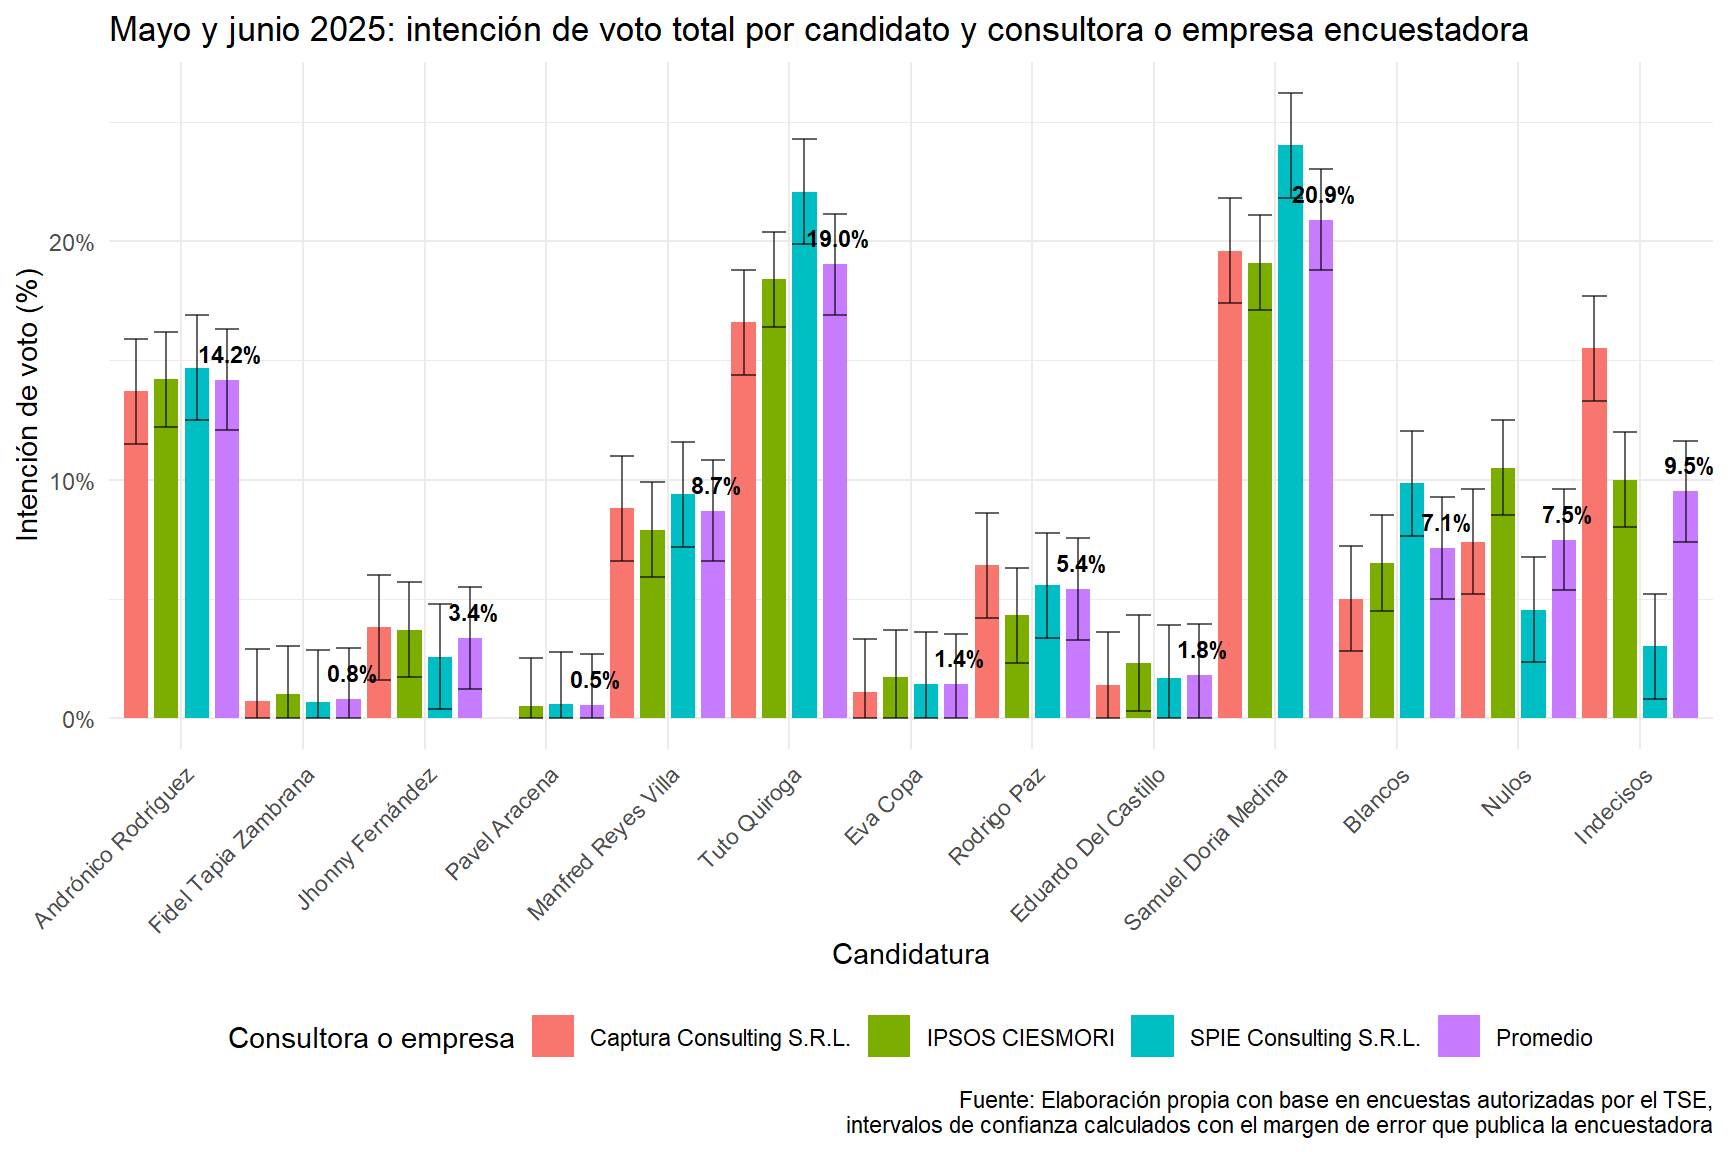
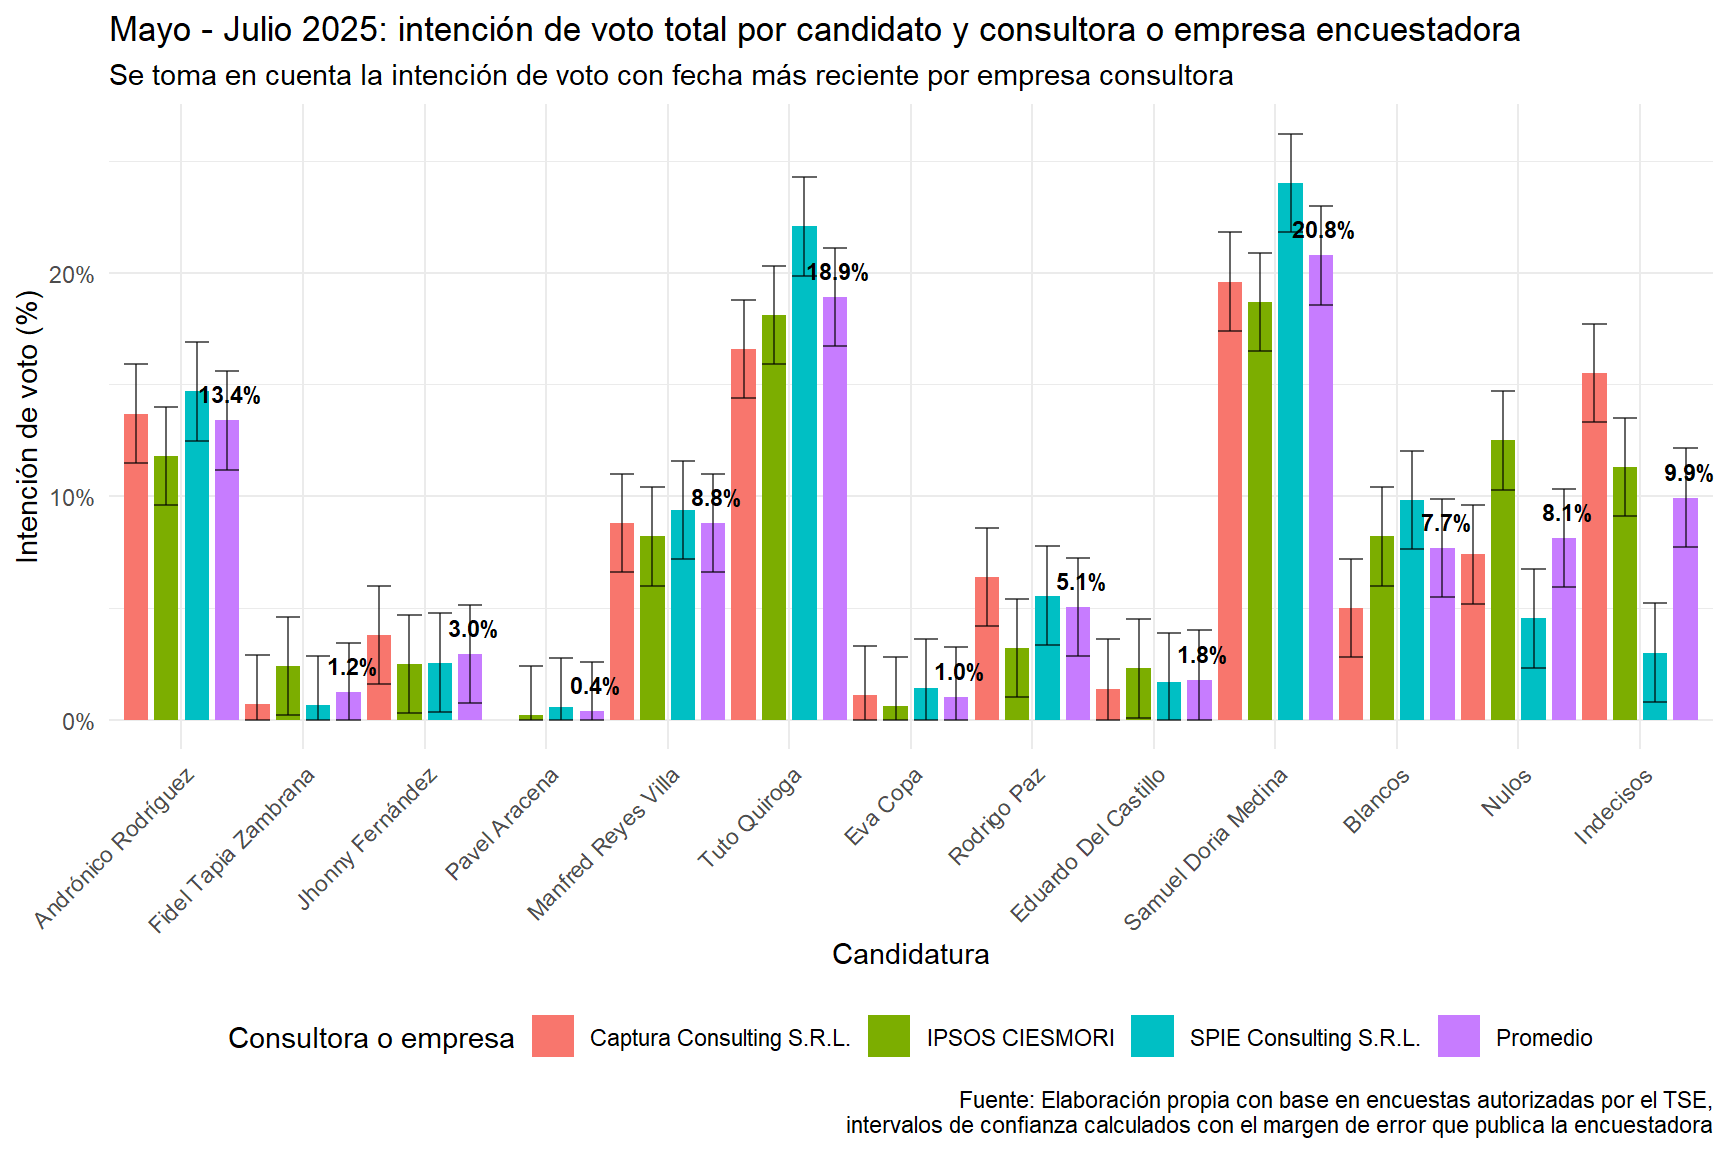
Built site for gh-pages

diff --git a/index.html b/index.html
@@ -90,6 +90,10 @@ ul.task-list li input[type="checkbox"] {
  <span class="menu-text">Inicio</span></a>
   </li>  
   <li class="nav-item">
+    <a class="nav-link" href="./$intención-de-voto-bolivia:-última-encuesta-disponible" rel="" target="">
+ <span class="menu-text">Última encuesta disponible</span></a>
+  </li>  
+  <li class="nav-item">
     <a class="nav-link" href="./#gráficos-de-intención-de-voto-total" rel="" target="">
  <span class="menu-text">Intención de voto total</span></a>
   </li>  
@@ -121,6 +125,7 @@ ul.task-list li input[type="checkbox"] {
   <ul>
   <li><a href="#registro-de-cambios" id="toc-registro-de-cambios" class="nav-link active" data-scroll-target="#registro-de-cambios">Registro de cambios</a></li>
   <li><a href="#presentación" id="toc-presentación" class="nav-link" data-scroll-target="#presentación">Presentación</a></li>
+  <li><a href="#intención-de-voto-bolivia-última-encuesta-disponible" id="toc-intención-de-voto-bolivia-última-encuesta-disponible" class="nav-link" data-scroll-target="#intención-de-voto-bolivia-última-encuesta-disponible">Intención de voto Bolivia: Última encuesta disponible</a></li>
   <li><a href="#gráficos-de-intención-de-voto-total" id="toc-gráficos-de-intención-de-voto-total" class="nav-link" data-scroll-target="#gráficos-de-intención-de-voto-total">Gráficos de intención de voto total</a></li>
   <li><a href="#gráficos-de-intención-de-votos-válidos" id="toc-gráficos-de-intención-de-votos-válidos" class="nav-link" data-scroll-target="#gráficos-de-intención-de-votos-válidos">Gráficos de intención de votos válidos</a></li>
   </ul>
@@ -136,7 +141,7 @@ ul.task-list li input[type="checkbox"] {
 <header id="title-block-header" class="quarto-title-block default">
 <div class="quarto-title">
 <h1 class="title">Encuesta de encuestas: Elecciones Generales Bolivia 2025</h1>
-<p class="subtitle lead">Última actualización: 02 de julio de 2025</p>
+<p class="subtitle lead">Última actualización: 13 de julio de 2025</p>
 </div>
 
 <div>
@@ -170,6 +175,7 @@ ul.task-list li input[type="checkbox"] {
 
 <section id="registro-de-cambios" class="level2">
 <h2 class="anchored" data-anchor-id="registro-de-cambios">Registro de cambios</h2>
+<p><strong>13/07/2025</strong>: Se añaden los datos de la última encuesta de IPSOS CIESMORI publicada por UNITEL el 13 de julio de 2025. Se optimiza el código para mostrar los promedios de campaña en función de la encuesta más reciente de cada consultora o empresa encuestadora (i.e.&nbsp;IPSOS CIESMORI es la única empresa que cuenta con dos encuestas durante el periodo de campaña, el cálculo de los promedio se hace con la intención de voto de su encuesta publicada hoy, es decir, el más reciente). Se añade nueva sección con los valores de intención de voto más recientes. Dado que NGP se ha retirado de la carrera electoral sus valores quedarán como perdidos de ahora en adelante. Se añaden rectas verticales marcandl algunos hitos como el inicio de campaña y el primer debate.</p>
 <p><strong>02/07/2025</strong>: Ante la inhabilitación de Jaime Dunn se cambia la etiqueta de candidato de NGP a Fidel Tapia Zambrana. La salida de Antonio Saravia también deja como el único candidato visible a Pavel Aracena por LyP-ADN. Modificaciones estéticas en gráficas de intención de voto para que den cuenta de la fecha del fin del levantamiento de las encuestas, se agrupó mayo y junio para gráficas de intención voto desde el inicio de campaña.</p>
 <p><strong>01/07/2025</strong>: Añadidas etiqueta de datos sobre barras promedio en gráficas de intención voto total e intención voto válido.</p>
 <p><strong>30/06/2025</strong>: Se añade información de la segunda encuesta de Captura Consulting publicada por Red Uno y RTP publicada en esta fecha. También se agrega la primera encuesta de la misma consultora, que corresponde al periodo de fines de marzo. Se introducen algunas modificaciones menores al análisis e interpretación en función de la nueva información. Optimizaciones, cambios estéticos menores en gráficas y correción ortográfica y de estilo del texto.</p>
@@ -181,6 +187,17 @@ ul.task-list li input[type="checkbox"] {
 <p>Si quieres saber quién soy yo, puedes consultar mi linkedIn <a href="https://www.linkedin.com/in/hescalar/">aquí</a>.</p>
 <p>En esta primera versión he optado por cubrir la mayor cantidad de información disponible y que sea mínimamente comparable. En este sentido, se han incluido dos encuestas no “oficiales”, es decir, que no se encontraban autorizadas ni fueron fiscalizadas por el Tribunal Supremo Electoral TSE al momento de su realización -pues todavía no había necesidad de ello, según los tiempos electorales marcados por el calendario electoral del TSE. Me refiero a la “súper encuesta” de Marcelo Claure y la consultora “panterra.global” y a la primera encuesta que realizó Captura Consulting para Red UNO y RTP. Ambas operaciones estadísticas corresponden al periodo de marzo del presente año.</p>
 <p>Si bien hay sondeos de opinión todavía más antiguos, partir de tres meses atrás parece ser un buen punto de referencia para observar y explicar algunos cambios recientes en las tendencias. Sin embargo, espero que las encuestas a publicarse en el futuro puedan brindar una base sólida para emprender análisis con mayor potencia estadística y mayor complejidad en la reflexión.</p>
+</section>
+<section id="intención-de-voto-bolivia-última-encuesta-disponible" class="level2">
+<h2 class="anchored" data-anchor-id="intención-de-voto-bolivia-última-encuesta-disponible">Intención de voto Bolivia: Última encuesta disponible</h2>
+<p>Fecha de publicación: 13 de julio</p>
+<p>Consultora o empresa encuestadora: IPSOS CIESMORI</p>
+<p>Medio de publicaciónx: UNITEL</p>
+<div class="cell">
+<div class="cell-output-display">
+<p><img src="index_files/figure-html/grafico-ultimaencuesta-1.png" class="img-fluid" width="864"></p>
+</div>
+</div>
 </section>
 <section id="gráficos-de-intención-de-voto-total" class="level2">
 <h2 class="anchored" data-anchor-id="gráficos-de-intención-de-voto-total">Gráficos de intención de voto total</h2>
